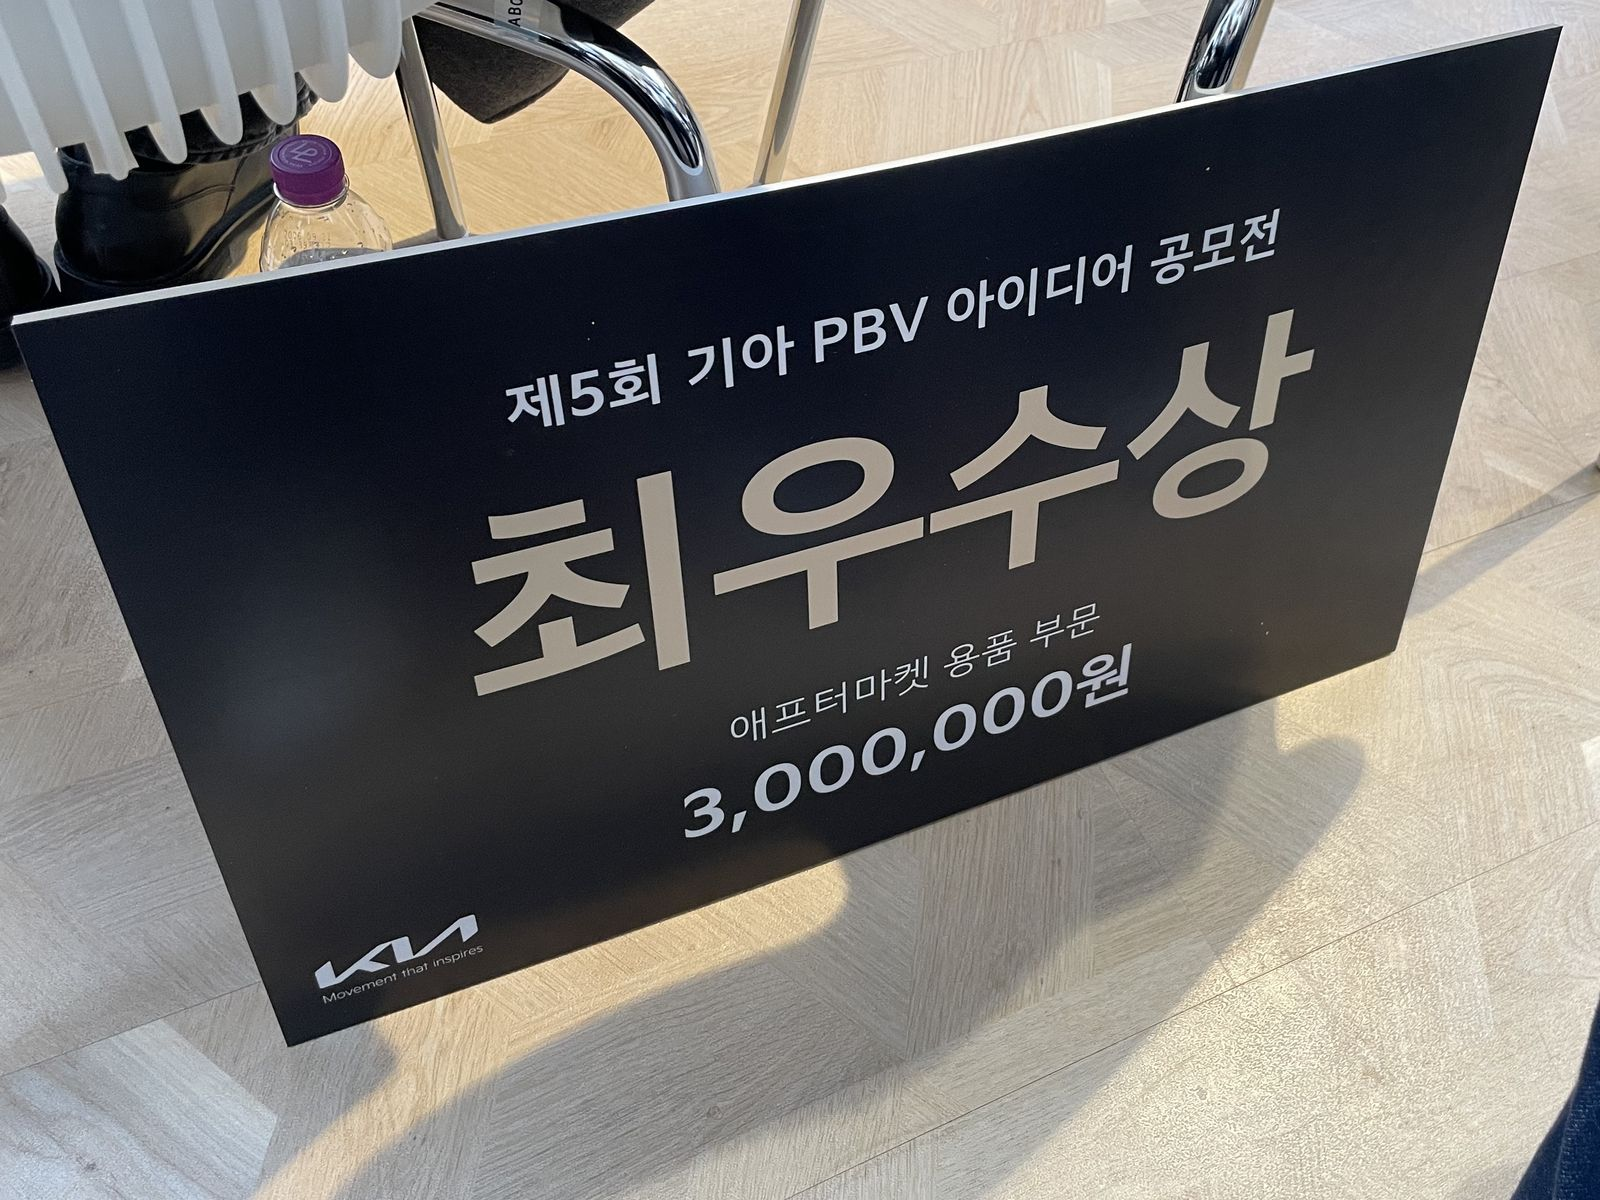
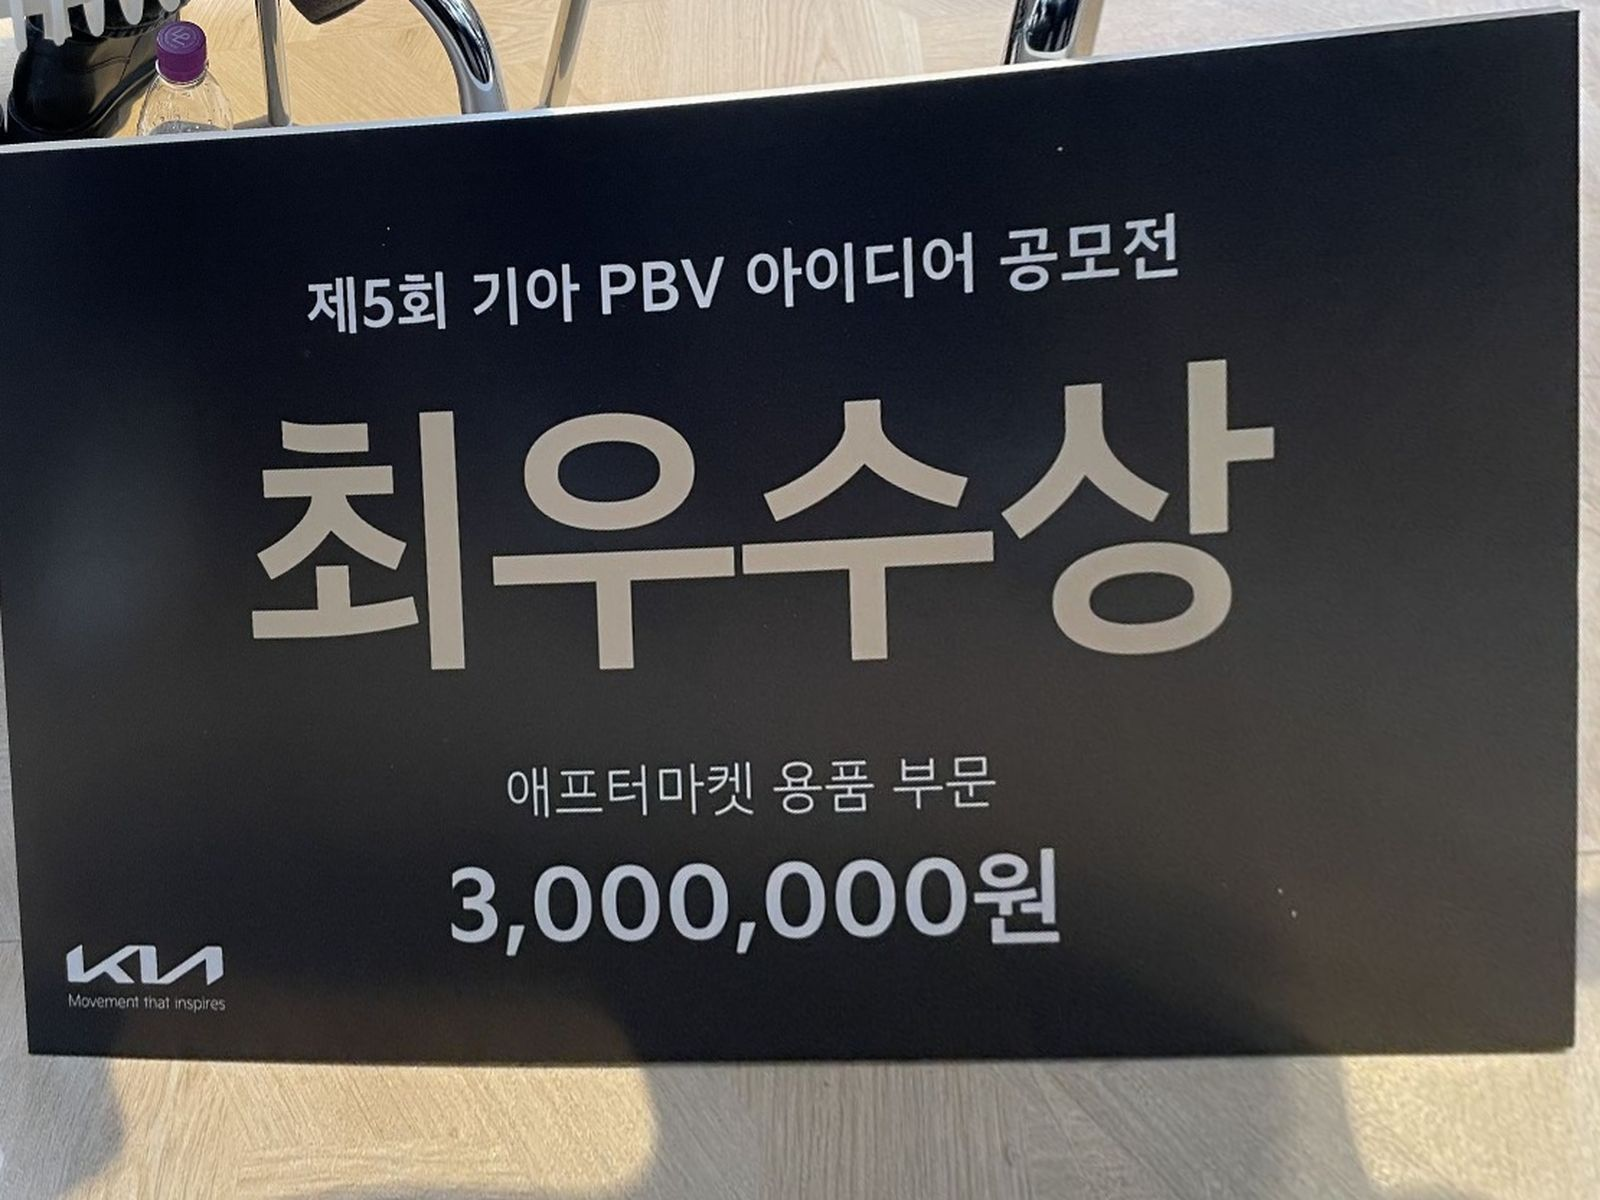
[Claude] 시상식 사진 수평·수직 보정 (발표 화면·상패)
Claude-Session: https://claude.ai/code/session_01TGcnNcW3PVG3GLeUSgQTT5

diff --git a/fitholder/index.html b/fitholder/index.html
@@ -117,7 +117,7 @@
       </div>
       <div class="pic duo">
         <img src="../img/award_fit_stage.jpg?v=1" alt="제5회 기아 PBV 아이디어 공모전 시상식 무대에서 최우수상 판을 들고 선 모습" width="1600" height="1200" loading="lazy">
-        <img src="../img/award_fit_board.jpg?v=1" alt="애프터마켓 용품 부문 최우수상 판 클로즈업" width="1600" height="1200" loading="lazy">
+        <img src="../img/award_fit_board.jpg?v=2" alt="애프터마켓 용품 부문 최우수상 판 클로즈업" width="1600" height="1200" loading="lazy">
       </div>
     </article>
   </section>

diff --git a/index.html b/index.html
@@ -179,7 +179,7 @@
       </dl>
 
       <figure class="about-pic">
-        <img src="img/about_pitch.jpg?v=1" alt="RECOV LAB 소개 화면을 띄우고 발표하는 모습. 청중은 뒷모습만 보인다" width="1600" height="1200" loading="lazy">
+        <img src="img/about_pitch.jpg?v=2" alt="RECOV LAB 소개 화면을 띄우고 발표하는 모습. 청중은 뒷모습만 보인다" width="1600" height="1200" loading="lazy">
         <figcaption>2026.11 제5회 기아 PBV 아이디어 공모전 최종 PT, RECOV LAB 소개 화면</figcaption>
       </figure>
     </div>
